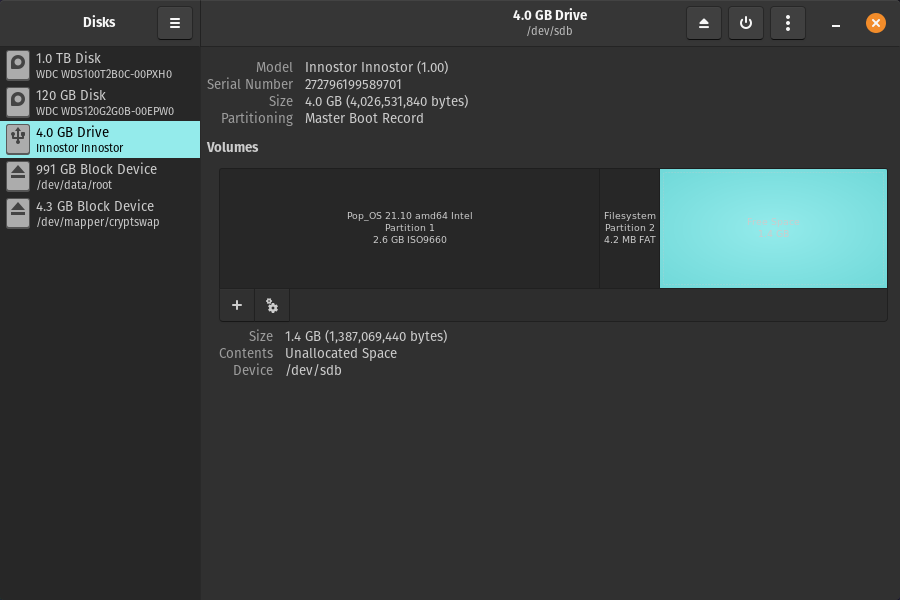
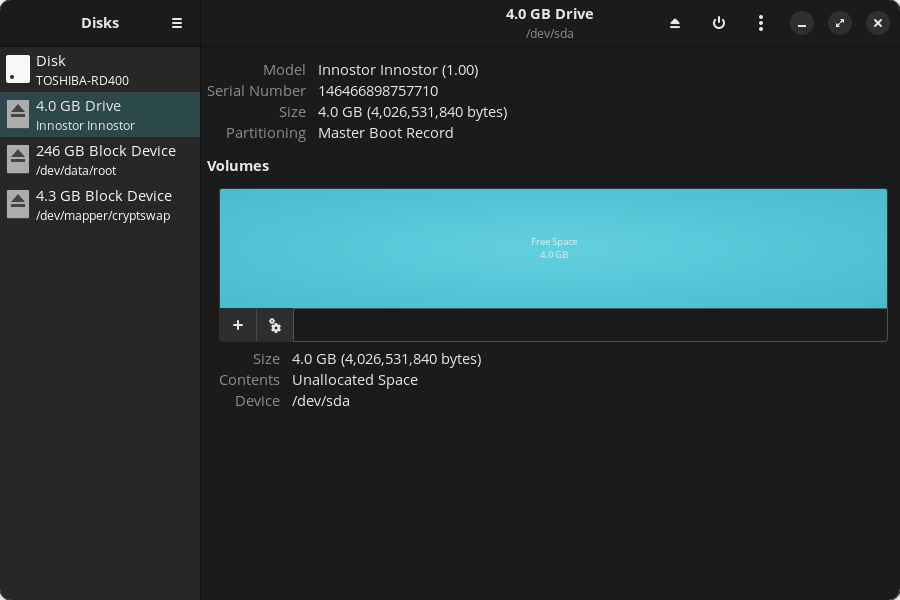
Update Disks screenshots & copy

Changed region(s): [[0.0, 0.0, 1.0, 0.69], [0.9956, 0.99, 1.0, 1.0], [0.0, 0.99, 0.0311, 1.0]]

diff --git a/content/live-disk.md b/content/live-disk.md
@@ -81,15 +81,23 @@ In order to make the bootable live disk, you must have a flash drive and softwar
 
 ### For Ubuntu/Pop!_OS
 
-Press the <kbd>SUPER</kbd> key then type 'disks' to launch the Disks application.
+Press the <kbd>SUPER</kbd> key then type 'disks' to launch the Disks application. Select your flash drive in the list on the left.
 
 ![Disks](/images/live-disk/disks.png)
 
-Next, select the flash drive in the list on left and click on the three dots on the top right of the window. Now select `Restore Disk Image...` and select the Pop!\_OS or Ubuntu .iso file. Finally, click the `Start Restoring...` button and enter your user password.
+Click on the three vertical dots near the top right of the window, then select `Restore Disk Image...` from the menu. Next, select the Pop!\_OS or Ubuntu .iso file. Finally, click the `Start Restoring...` button.
 
-![Disks](/images/live-disk/disks-selection.png)
+![Disks File Selection](/images/live-disk/disks-file-selection.png)
 
-Once the flash is complete (should look like the screenshot above), it's time to boot it up on the machine that you want to install Pop!_OS on!
+After entering your user password, flashing will begin and a progress bar will appear.
+
+![Disks Progress](/images/live-disk/disks-progress.png)
+
+Once the flash is complete, the Pop!_OS partition will appear on the flash drive, as seen below.
+
+![Disks Complete](/images/live-disk/disks-complete.png)
+
+Now it's time to boot it up on the machine that you want to install Pop!_OS on!
 
 ### For Windows/macOS
 
